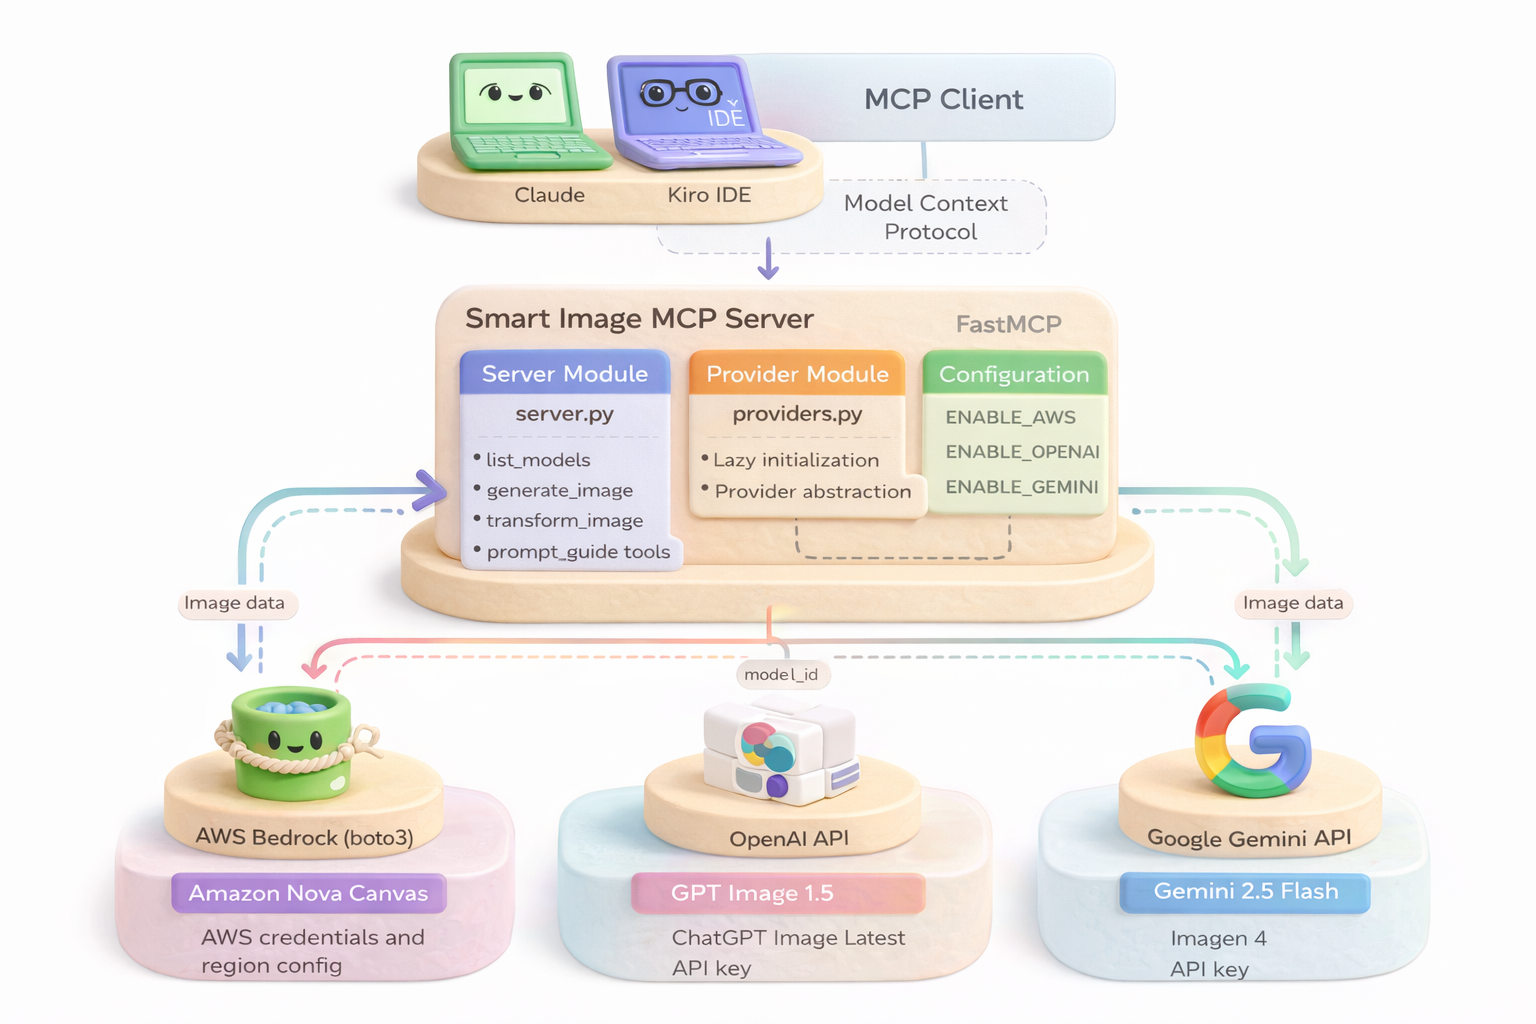
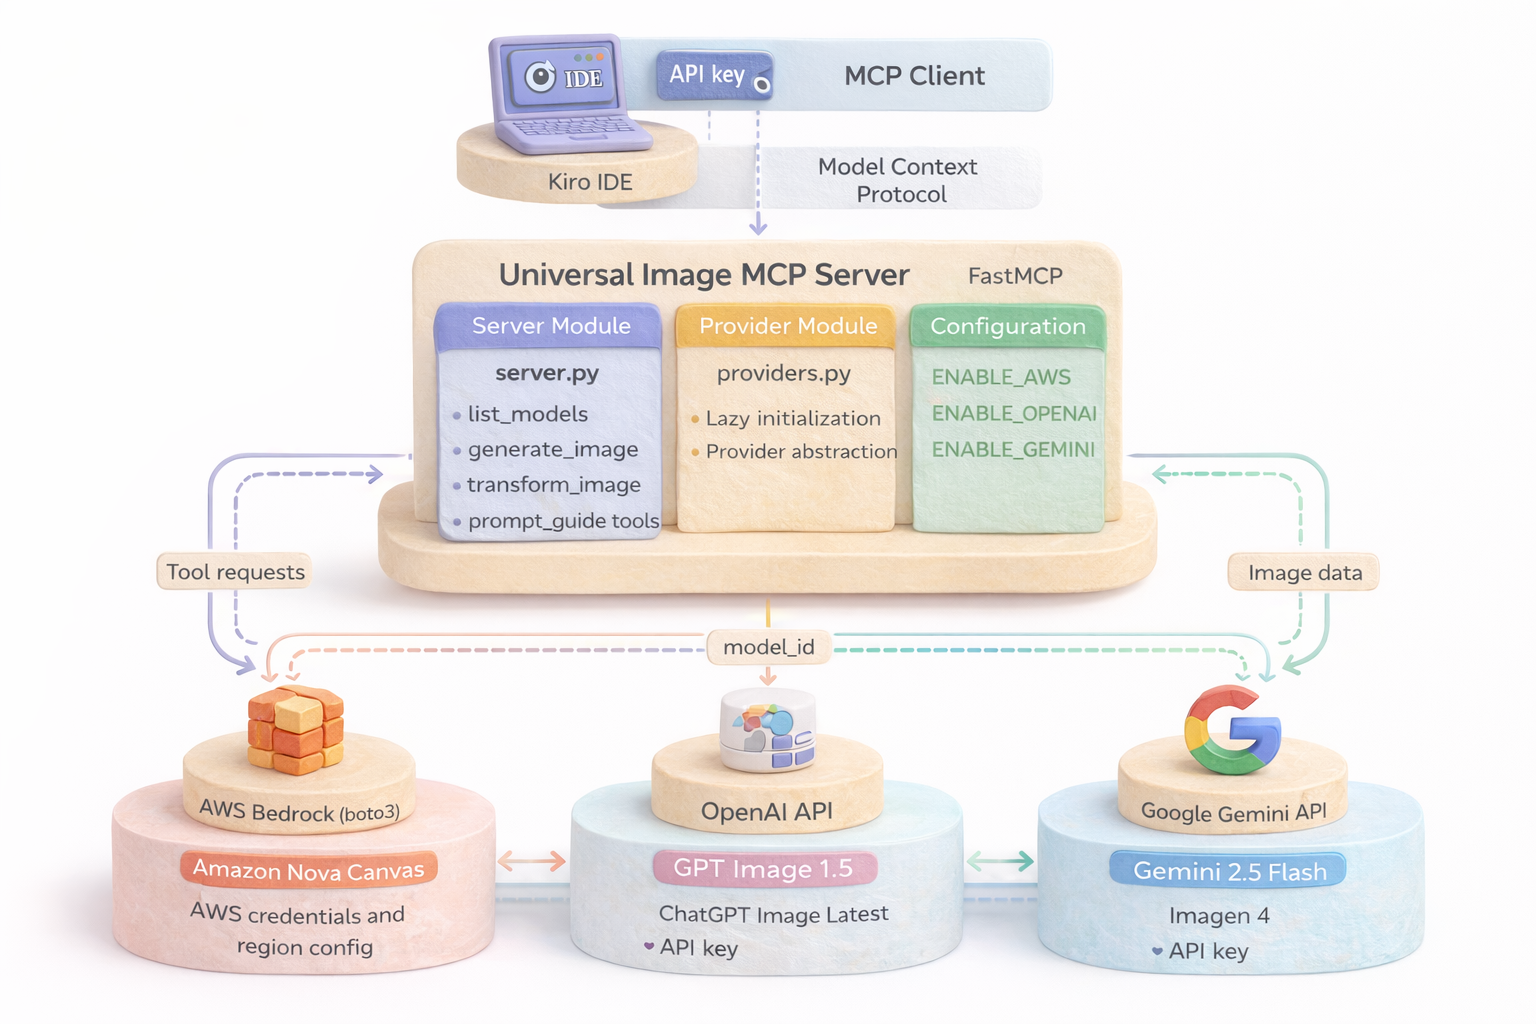
version updates image correction

Changed region(s): [[0.0312, 0.0312, 0.9062, 0.9688]]

diff --git a/README.md b/README.md
@@ -22,12 +22,12 @@ Comparison of architecture diagrams generated by different models using this MCP
 
 | Style | Model | Output |
 |-------|-------|--------|
-| **Technical Diagram** | OpenAI `gpt-image-1.5` | ![OpenAI Technical](https://raw.githubusercontent.com/manu-mishra/universal-image-mcp/main/images/universal-image-mcp-architecture.png) |
-| **Technical Diagram** | Google `gemini-2.5-flash-image` | ![Gemini Technical](https://raw.githubusercontent.com/manu-mishra/universal-image-mcp/main/images/universal-image-mcp-architecture-gemini.png) |
-| **Technical Diagram** | AWS `amazon.nova-canvas-v1:0` | ![Nova Technical](https://raw.githubusercontent.com/manu-mishra/universal-image-mcp/main/images/universal-image-mcp-architecture-nova.png) |
-| **3D Clay Art** | Google `gemini-2.5-flash-image` | ![Gemini Clay](https://raw.githubusercontent.com/manu-mishra/universal-image-mcp/main/images/universal-image-mcp-architecture-clay-gemini.png) |
-| **3D Clay Art** | OpenAI `gpt-image-1.5` | ![OpenAI Clay](https://raw.githubusercontent.com/manu-mishra/universal-image-mcp/main/images/universal-image-mcp-architecture-clay-openai.png) |
-| **3D Clay Art** | AWS `amazon.nova-canvas-v1:0` | ![Nova Clay](https://raw.githubusercontent.com/manu-mishra/universal-image-mcp/main/images/universal-image-mcp-architecture-clay-nova.png) |
+| **Technical Diagram** | OpenAI `gpt-image-1.5` | ![Universal Image MCP Server Architecture Diagram - OpenAI GPT Image 1.5 - Multi-provider AI image generation with AWS Bedrock, OpenAI, Google Gemini integration](https://raw.githubusercontent.com/manu-mishra/universal-image-mcp/main/images/universal-image-mcp-architecture.png) |
+| **Technical Diagram** | Google `gemini-2.5-flash-image` | ![Universal Image MCP Server Architecture Diagram - Google Gemini 2.5 Flash - Model Context Protocol for AI image generation](https://raw.githubusercontent.com/manu-mishra/universal-image-mcp/main/images/universal-image-mcp-architecture-gemini.png) |
+| **Technical Diagram** | AWS `amazon.nova-canvas-v1:0` | ![Universal Image MCP Server Architecture Diagram - AWS Bedrock Nova Canvas - Enterprise AI image generation architecture](https://raw.githubusercontent.com/manu-mishra/universal-image-mcp/main/images/universal-image-mcp-architecture-nova.png) |
+| **3D Clay Art** | Google `gemini-2.5-flash-image` | ![3D Clay Art Style MCP Architecture - Google Gemini 2.5 Flash - AI-generated technical diagram in cute clay aesthetic](https://raw.githubusercontent.com/manu-mishra/universal-image-mcp/main/images/universal-image-mcp-architecture-clay-gemini.png) |
+| **3D Clay Art** | OpenAI `gpt-image-1.5` | ![3D Clay Art Style MCP Architecture - OpenAI GPT Image 1.5 - AI image generation server in 3D clay art style](https://raw.githubusercontent.com/manu-mishra/universal-image-mcp/main/images/universal-image-mcp-architecture-clay-openai.png) |
+| **3D Clay Art** | AWS `amazon.nova-canvas-v1:0` | ![3D Clay Art Style MCP Architecture - AWS Nova Canvas - Multi-provider image generation in pastel clay aesthetic](https://raw.githubusercontent.com/manu-mishra/universal-image-mcp/main/images/universal-image-mcp-architecture-clay-nova.png) |
 
 <details>
 <summary>View Prompt Used</summary>
